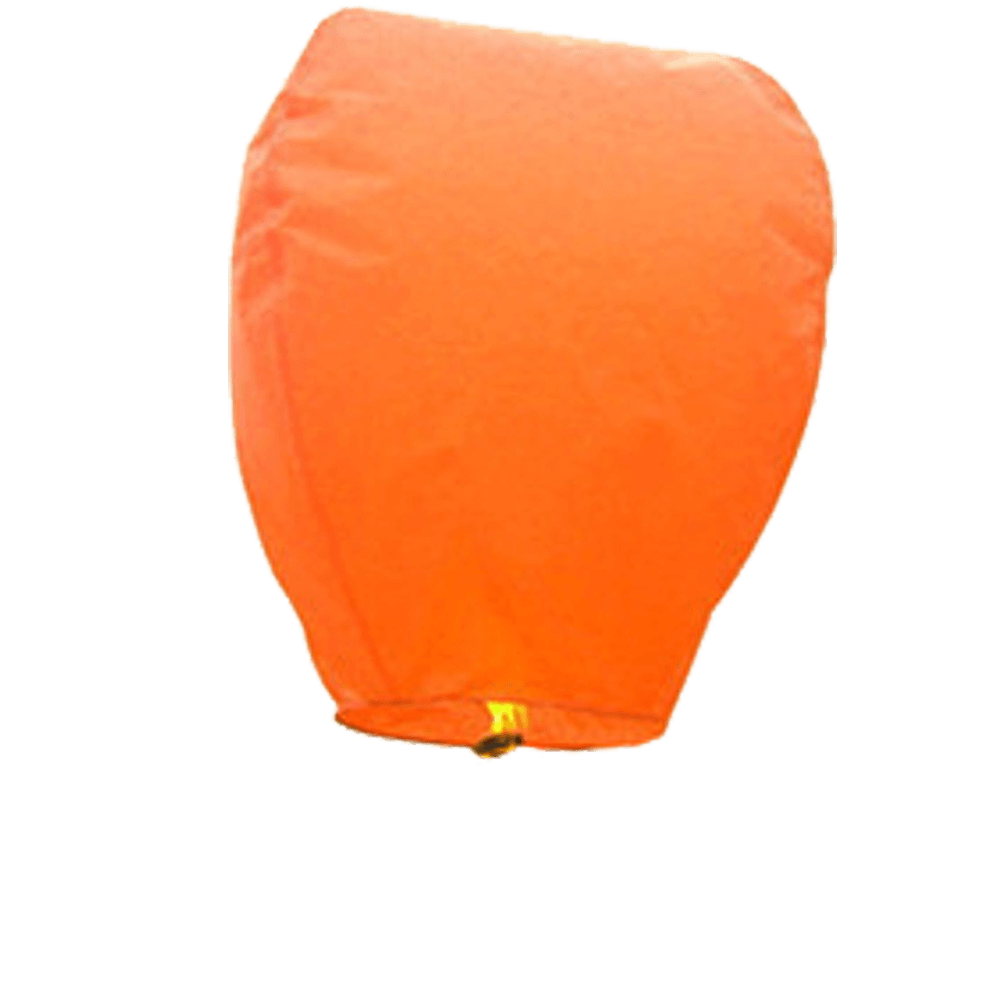
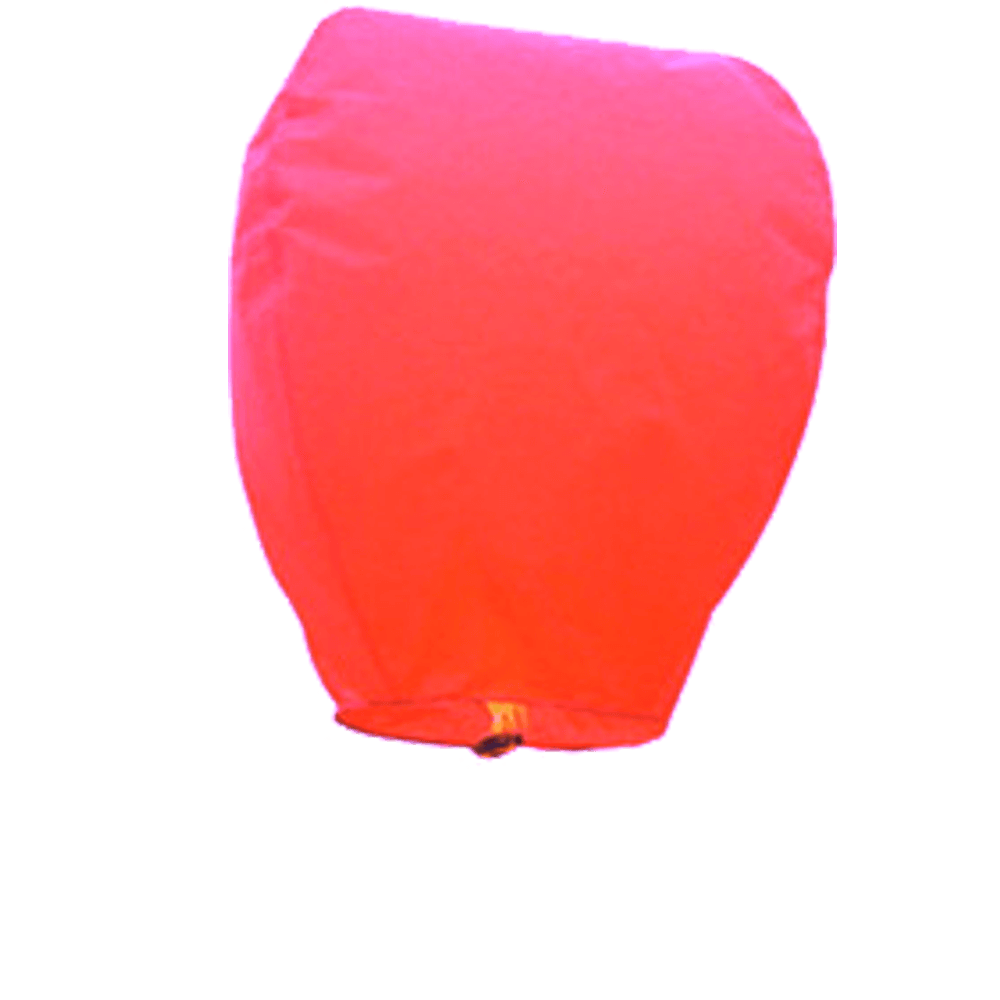
fix: salmon/coral lantern PNG + cache buster v9.0.0 for maxVisible fix

diff --git a/public/display.html b/public/display.html
@@ -5,7 +5,7 @@
     <meta charset="UTF-8">
     <meta name="viewport" content="width=device-width, initial-scale=1.0">
     <title>İyilik Kumbarası - Gösterim</title>
-    <link rel="stylesheet" href="/css/themes.css?v=8.0.0">
+    <link rel="stylesheet" href="/css/themes.css?v=9.0.0">
     <link href="https://fonts.googleapis.com/css2?family=Nunito:wght@400;600;700;800;900&display=swap" rel="stylesheet">
     <style>
         * {
@@ -1118,7 +1118,7 @@
             }
         })();
     </script>
-    <script src="js/display.js?v=8.0.0"></script>
+    <script src="js/display.js?v=9.0.0"></script>
 </body>
 
 </html>
